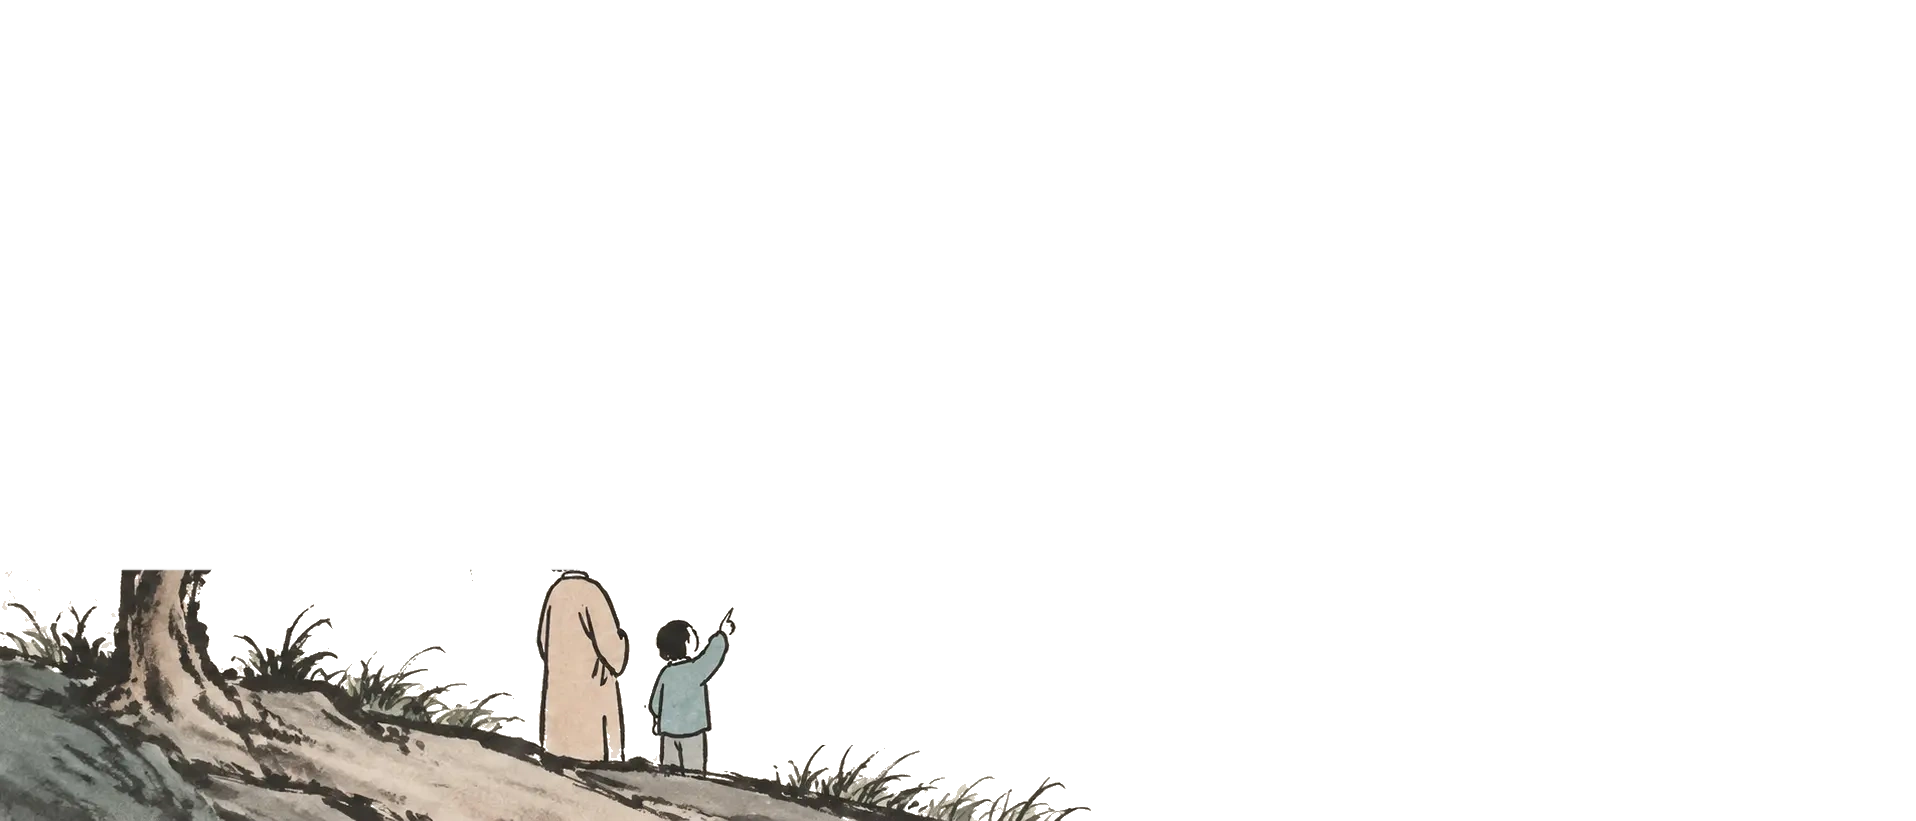
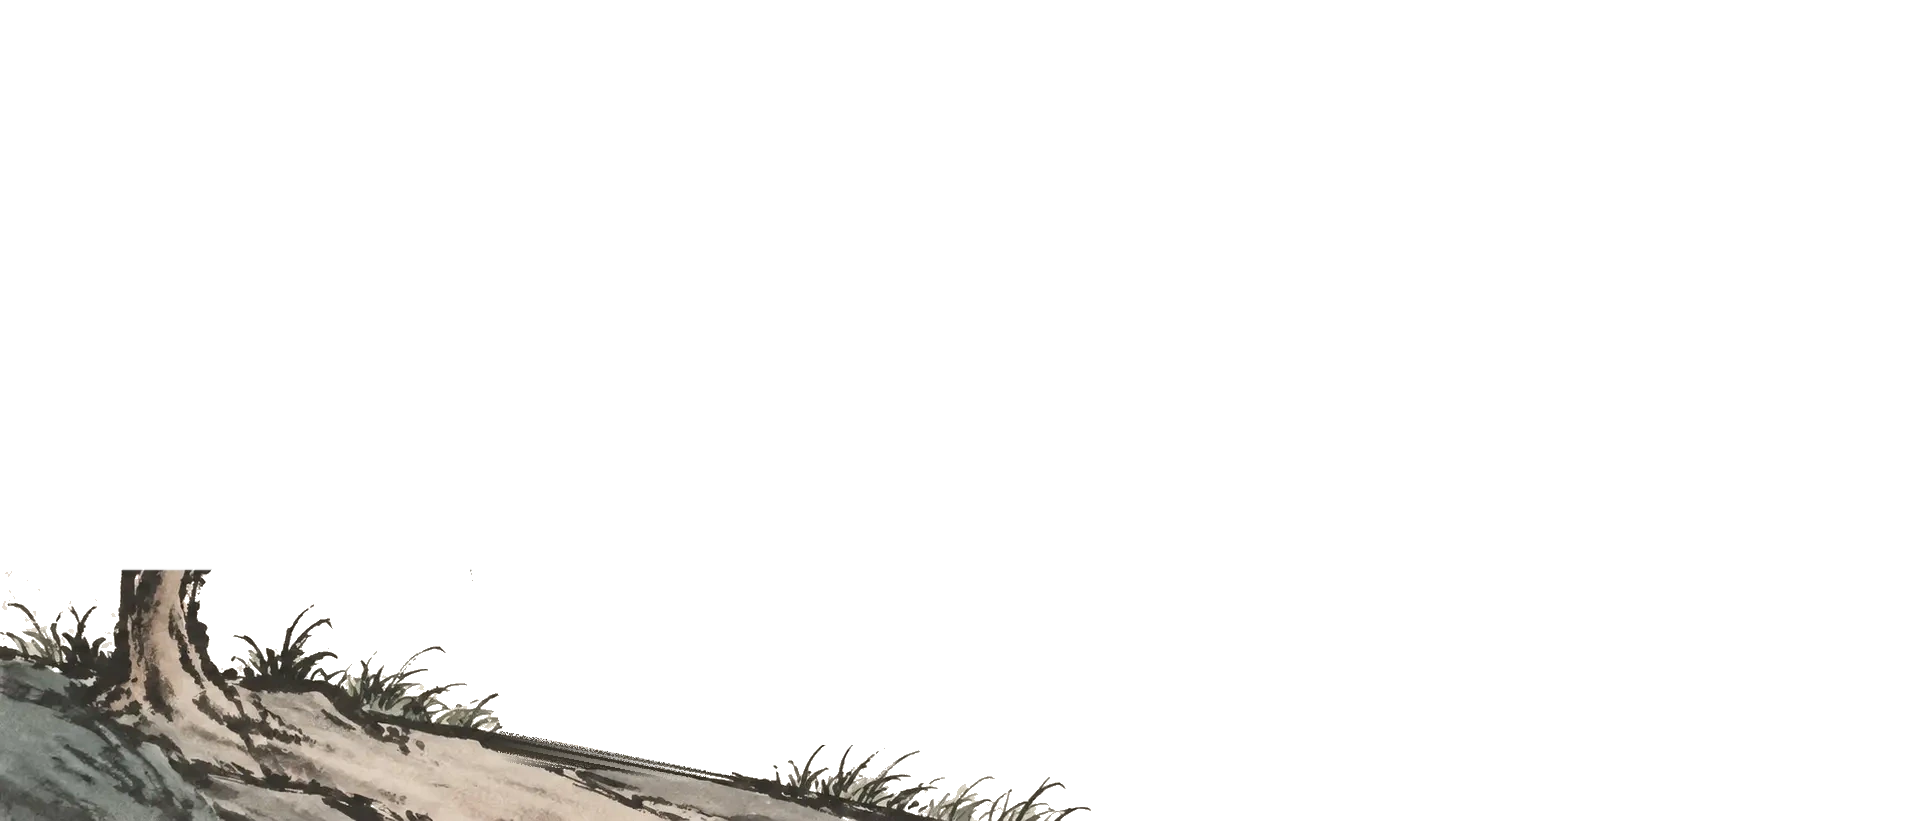
Float the navbar over the scene, drop the figures, add a scroll arrow
- The navbar no longer cuts a strip across the painting. On the home page it
  floats with no background and ink-coloured links, and picks the solid bar
  back up once page content scrolls under it. A soft paper-coloured halo keeps
  the links readable where they cross the willow. Other pages are unchanged.
- Removed the two figures from the foreground. They were baked into the bank
  layer as well as the separate people layer, so the bank art is retouched:
  above the bank's ridge the layer is pure paper, so they erase exactly there,
  and the thin band where they met the ground is filled along the slope so the
  ink edge and texture carry through.
- Added a small down arrow under the scroll cue that drifts and fades in the
  same ink as the label.

Claude-Session: https://claude.ai/code/session_017ZGQkYjSj8Ksu9UE5a5XsZ

Changed region(s): [[0.2463, 0.7004, 0.4003, 0.944]]

diff --git a/components/navbar.tsx b/components/navbar.tsx
@@ -1,11 +1,65 @@
+"use client";
+
 import Link from "next/link";
+import { useEffect, useState } from "react";
 import { ThemeToggle } from "@/components/theme-toggle";
 import { SocialLinks } from "@/components/social-links";
 
-export function Navbar() {
+// Ink used by the opening scene, so the links stay legible on the paper
+// regardless of the theme while the bar itself is invisible.
+const INK = "oklch(0.26 0.012 60)";
+
+/**
+ * `overlay` lets the bar float over the opening scene with no background,
+ * so the painting isn't cut off by a strip across the top. It picks the solid
+ * bar back up as soon as the page content scrolls underneath it.
+ */
+export function Navbar({ overlay = false }: { overlay?: boolean }) {
+  const [overScene, setOverScene] = useState(overlay);
+
+  useEffect(() => {
+    if (!overlay) return;
+    const el = document.querySelector<HTMLElement>("[data-scene]");
+    if (!el) return;
+    let raf = 0;
+    const update = () => {
+      cancelAnimationFrame(raf);
+      raf = requestAnimationFrame(() => setOverScene(el.getBoundingClientRect().bottom > 72));
+    };
+    update();
+    window.addEventListener("scroll", update, { passive: true });
+    window.addEventListener("resize", update);
+    return () => {
+      window.removeEventListener("scroll", update);
+      window.removeEventListener("resize", update);
+      cancelAnimationFrame(raf);
+    };
+  }, [overlay]);
+
+  const floating = overlay && overScene;
+
   return (
-    <div className="fixed top-0 left-0 right-0 z-50 bg-[#faf9f6]/95 dark:bg-[#0f0f0f]/95 backdrop-blur-sm border-b border-[#e5e3e0] dark:border-[#2a2a2a] px-4 py-4 md:px-8 lg:px-12 w-full">
-      <div className="flex justify-between items-center max-w-full">
+    <div
+      className={`fixed top-0 left-0 right-0 z-50 px-4 py-4 md:px-8 lg:px-12 w-full transition-colors duration-300 ${
+        floating
+          ? "bg-transparent border-b border-transparent"
+          : "bg-[#faf9f6]/95 dark:bg-[#0f0f0f]/95 backdrop-blur-sm border-b border-[#e5e3e0] dark:border-[#2a2a2a]"
+      }`}
+      style={floating ? { color: INK } : undefined}
+    >
+      <div
+        className="flex justify-between items-center max-w-full"
+        style={
+          floating
+            ? {
+                // A soft paper-coloured halo instead of a bar, so the links stay
+                // readable where they cross the willow's dark strokes.
+                filter:
+                  "drop-shadow(0 0 3px rgba(247,243,236,0.95)) drop-shadow(0 0 7px rgba(247,243,236,0.75))",
+              }
+            : undefined
+        }
+      >
         <SocialLinks />
         <div className="flex items-center gap-8">
           <Link href="/" className="text-base hover:opacity-70 transition-opacity">

diff --git a/components/serene-scroll.tsx b/components/serene-scroll.tsx
@@ -21,7 +21,6 @@ const LAYERS = {
   mountainsVillage: "/scene/mountains_village.webp",
   tree: "/scene/tree.webp",
   bank: "/scene/foreground_bank_clean.webp",
-  people: "/scene/people.webp",
 };
 
 function useScrollProgress(ref: React.RefObject<HTMLDivElement | null>) {
@@ -123,7 +122,7 @@ export function SereneScroll() {
   const bankP = easeIn(seg(p, 0.0, 0.8));
 
   return (
-    <div ref={wrapRef} className="relative h-[260svh] font-hero">
+    <div ref={wrapRef} data-scene className="relative h-[260svh] font-hero">
       <section className="sticky top-0 h-[100svh] overflow-hidden">
         <Layer src={LAYERS.background} style={{ transform: `scale(${1 + p * 0.08})` }} />
 
@@ -166,7 +165,7 @@ export function SereneScroll() {
           />
         </div>
 
-        {/* bank + people — nearest: fastest push left */}
+        {/* bank — nearest: fastest push left */}
         <div
           className="pointer-events-none absolute inset-0 will-change-transform"
           style={{
@@ -176,7 +175,6 @@ export function SereneScroll() {
           }}
         >
           <Layer src={LAYERS.bank} className="scene-near" />
-          <Layer src={LAYERS.people} className="scene-near" />
         </div>
 
         <div
@@ -201,10 +199,22 @@ export function SereneScroll() {
         </div>
 
         <div
-          className="absolute bottom-8 left-1/2 z-10 -translate-x-1/2 text-[11px] tracking-[0.3em] uppercase"
+          className="absolute bottom-8 left-1/2 z-10 flex -translate-x-1/2 flex-col items-center gap-2"
           style={{ color: INK_MUTED, opacity: 1 - p * 6 }}
         >
-          Scroll
+          <span className="text-[11px] tracking-[0.3em] uppercase">Scroll</span>
+          <svg
+            className="animate-scroll-hint h-4 w-4"
+            viewBox="0 0 24 24"
+            fill="none"
+            stroke="currentColor"
+            strokeWidth={1}
+            strokeLinecap="round"
+            strokeLinejoin="round"
+            aria-hidden
+          >
+            <path d="M12 4.5v13.5M6.5 12.5 12 18l5.5-5.5" />
+          </svg>
         </div>
 
         {/* hand the painting off to the page background at the end of the scene */}

diff --git a/app/globals.css b/app/globals.css
@@ -56,9 +56,21 @@ body {
   animation: hero-bob 5s ease-in-out infinite;
 }
 
+/* Scroll cue: the arrow drifts down and fades, like a slow breath. */
+@keyframes scroll-hint {
+  0%   { transform: translateY(-3px); opacity: 0.35; }
+  50%  { transform: translateY(3px);  opacity: 1; }
+  100% { transform: translateY(-3px); opacity: 0.35; }
+}
+
+.animate-scroll-hint {
+  animation: scroll-hint 2.8s ease-in-out infinite;
+}
+
 @media (prefers-reduced-motion: reduce) {
   .animate-hero-sway,
-  .animate-hero-bob {
+  .animate-hero-bob,
+  .animate-scroll-hint {
     animation: none;
   }
 }

diff --git a/app/page.tsx b/app/page.tsx
@@ -99,7 +99,7 @@ const projects: Project[] = [
 export default function Home() {
   return (
     <main className="min-h-screen overflow-x-clip w-full">
-      <Navbar />
+      <Navbar overlay />
 
       <SereneScroll />
 
